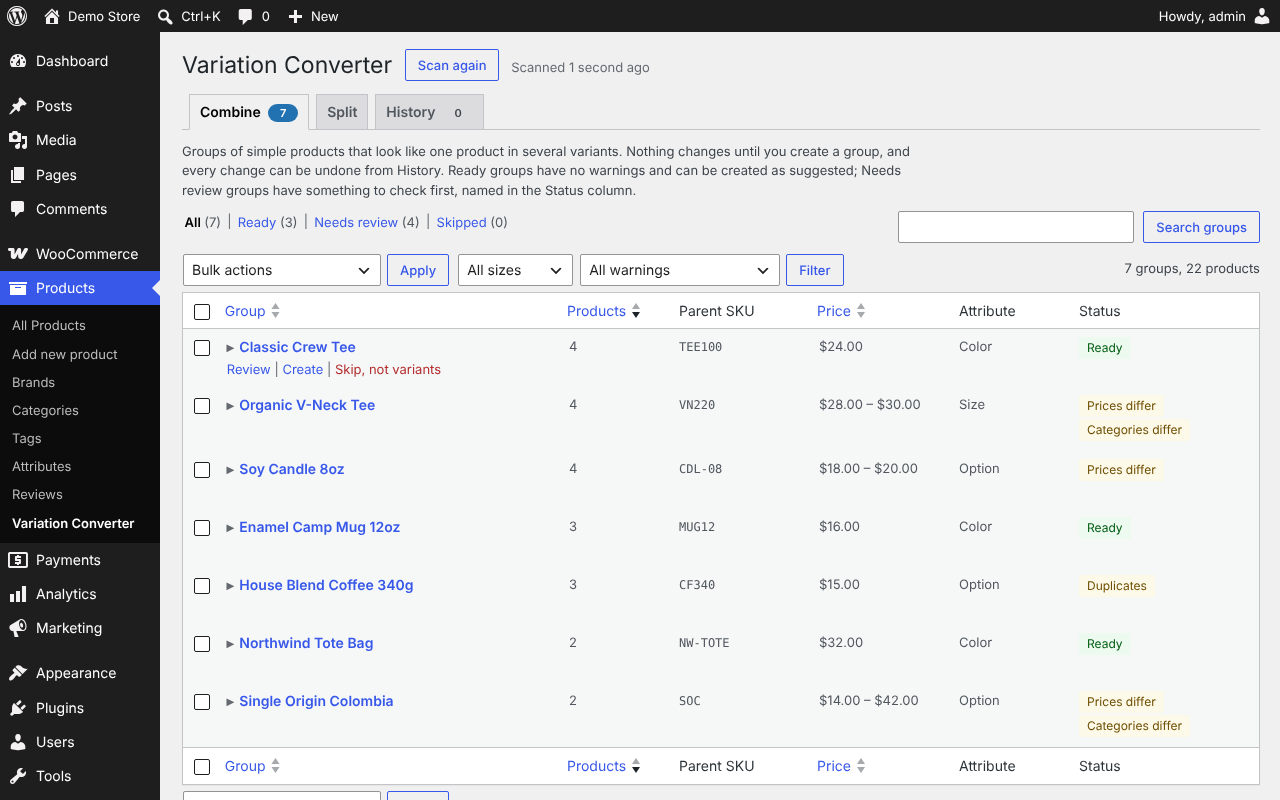
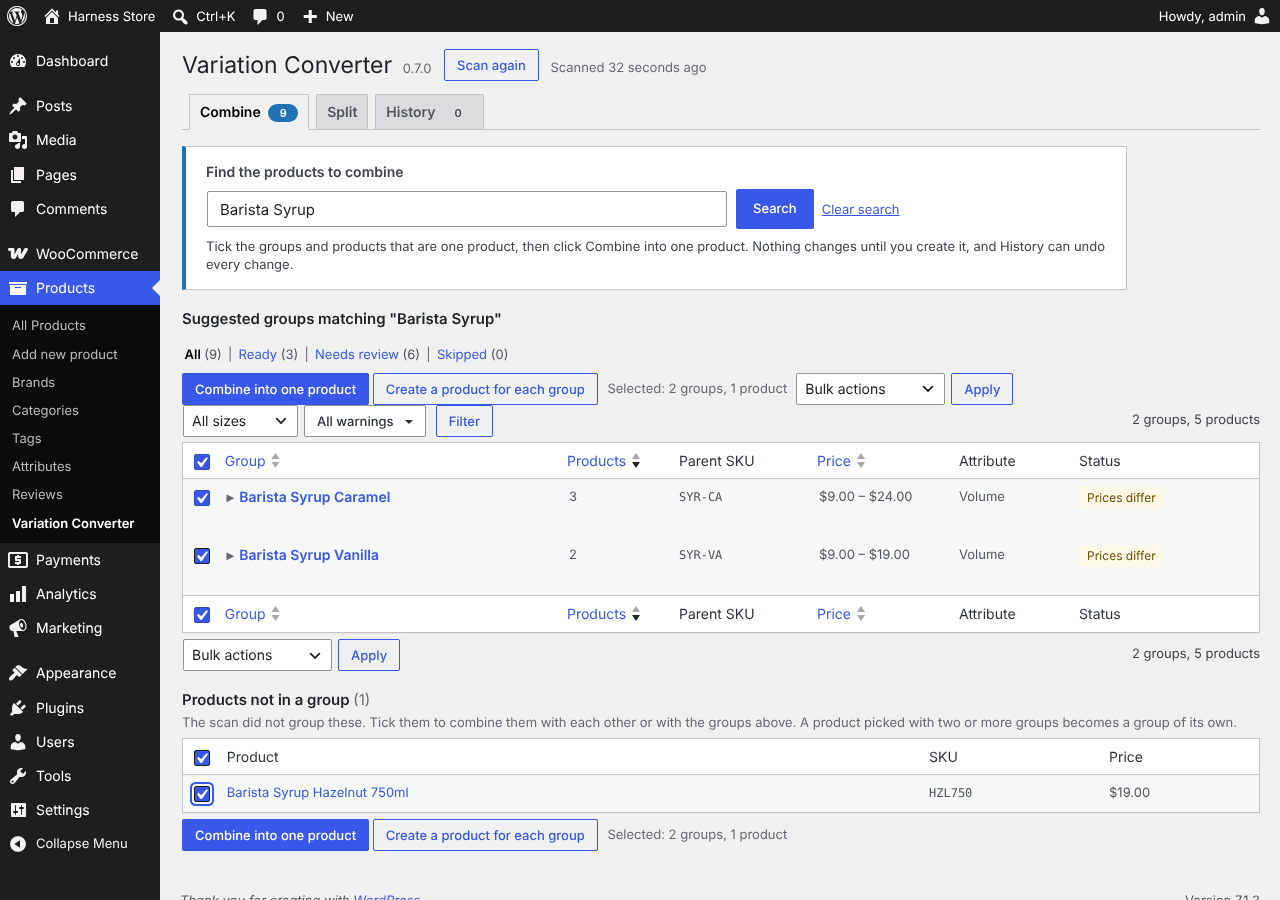
Docs, site and listing lead with search: find, tick, Combine into one product (#42)
readme.txt: short description, description, How it works, features,
two-attribute and grouping FAQs, install step, screenshot captions,
0.7.0 upgrade notice. Site: hero, meta, new Search and Tick steps,
features, FAQ. README: intro, combine steps, two-attribute section.
wordpress.org screenshots regenerated on 0.7.0 with the search flow;
site/images/search.webp from screenshot 1.

Claude-Session: https://claude.ai/code/session_01UmMitGtBR1GMWpup46JTgp

diff --git a/site/index.html b/site/index.html
@@ -4,9 +4,9 @@
 <meta charset="utf-8">
 <meta name="viewport" content="width=device-width, initial-scale=1">
 <title>Variation Converter for WooCommerce</title>
-<meta name="description" content="A free WordPress plugin that merges near-duplicate WooCommerce simple products into one variable product, or splits a variable product into simple ones. Preview first, undo in one click.">
+<meta name="description" content="A free WordPress plugin: search for a WooCommerce product, tick its variants and combine them into one variable product, or split a variable product into simple ones. Preview first, undo in one click.">
 <meta property="og:title" content="Variation Converter for WooCommerce">
-<meta property="og:description" content="Merge near-duplicate simple products into a variable product, or split a variable product into simple ones. Preview first, undo in one click.">
+<meta property="og:description" content="Search for a product, tick its variants and combine them into one variable product, or split a variable product into simple ones. Preview first, undo in one click.">
 <meta property="og:type" content="website">
 <meta property="og:image" content="https://variation-converter.bizrocket.ca/images/combine-list.png">
 <link rel="icon" href="favicon.svg" type="image/svg+xml">
@@ -31,7 +31,7 @@
 	<div class="wrap">
 		<p class="eyebrow">Free WordPress plugin for WooCommerce</p>
 		<h1>Turn a pile of near-duplicate products into one variable product.</h1>
-		<p class="lead">Variation Converter finds the simple products in your catalog that are really one product in several colors, sizes or scents, and merges each group into a variable product. It splits variable products back into simple ones too. You preview every change, and Undo puts everything back.</p>
+		<p class="lead">Search for a product, tick the groups and products that are really one product in several colors, sizes or scents, and click <b>Combine into one product</b>. Variation Converter has already grouped most of them for you. It splits variable products back into simple ones too. You preview every change, and Undo puts everything back.</p>
 		<div class="actions">
 			<a class="button" href="https://wordpress.org/plugins/variation-converter-for-woocommerce/">Get it on WordPress.org</a>
 			<a class="button button-ghost" href="https://github.com/craigpestell/variation-converter">View on GitHub</a>
@@ -40,7 +40,7 @@
 	</div>
 	<div class="wrap">
 		<figure class="shot shot-hero">
-			<img src="images/combine-list.webp" width="1120" height="738" alt="The Combine tab listing proposed groups such as Classic Crew Tee and Soy Candle, each with a product count, parent SKU, price range, attribute and status.">
+			<img src="images/search.webp" width="1120" height="828" alt="The Combine tab after searching for Barista Syrup: two suggested groups, Caramel and Vanilla, and one product not in a group, Hazelnut 750ml, all ticked, with the Combine into one product button.">
 		</figure>
 	</div>
 </section>
@@ -59,14 +59,24 @@
 		<ol class="steps">
 			<li>
 				<div class="step-text">
-					<h3>It finds the groups</h3>
-					<p>Go to <b>Products &gt; Variation Converter</b>. The plugin scans your published simple products and groups the ones whose SKUs share a family (TEE100-BLK, TEE100-NAV) and whose names start with the same words. Each group shows a guessed attribute, a suggested parent SKU, and notes on anything worth a second look: different prices, different categories, duplicate labels.</p>
+					<h3>Search for the product</h3>
+					<p>Go to <b>Products &gt; Variation Converter</b> and type a name or SKU in <b>Find the products to combine</b>. You see the groups the plugin has already found for it, grouped by SKU family (TEE100-BLK, TEE100-NAV) and shared name, and below them any matching products it didn't group. Each group shows a guessed attribute, a suggested parent SKU, and notes on anything worth a second look: different prices, different categories, duplicate labels.</p>
+				</div>
+			</li>
+			<li>
+				<div class="step-text">
+					<h3>Tick what belongs together</h3>
+					<p>Tick the groups and products that are one product and click <b>Combine into one product</b>. Products, or one group plus a few strays, make a product with one attribute, such as Color. Two or more groups make a product with two attributes, such as Flavor and Size, with a grid of the pairs you actually sell.</p>
+				</div>
+				<figure class="shot">
+					<img src="images/combine-grid.webp" width="1078" height="1076" alt="Barista Syrup combined from the Caramel and Vanilla groups and a Hazelnut product: one row per product with its Color and Volume, and a grid showing which pairs are sold.">
+				</figure>
 				</div>
 			</li>
 			<li>
 				<div class="step-text">
 					<h3>You review and adjust</h3>
-					<p>Open a group to see each product, the variant label read from its name, its SKU, price and stock. Rename the product, change the attribute, fix labels, drag to reorder, or untick anything that doesn't belong. Nothing changes until you click Create.</p>
+					<p>Check each product, the variant label read from its name, its SKU, price and stock. Rename the product, change the attribute, fix labels, drag to reorder, or untick anything that doesn't belong. Nothing changes until you click Create.</p>
 				</div>
 				<figure class="shot">
 					<img src="images/combine-card.webp" width="1076" height="390" alt="A group being reviewed: product name Classic Crew Tee, attribute Color, parent SKU TEE100, and four rows labeled Black, Heather Grey, Navy and White with their SKUs, prices and stock.">
@@ -109,14 +119,16 @@
 		<h2>What you get</h2>
 		<ul class="grid">
 			<li><h3>Both directions</h3><p>Merge simple products into a variable product, or split a variable product into simple products.</p></li>
-			<li><h3>Finds the groups for you</h3><p>Grouped by SKU family and shared name, sorted and filterable, with Ready, Needs review and Skipped views.</p></li>
+			<li><h3>Search first</h3><p>Type a product name and see every group and stray product that matches, ready to tick and combine.</p></li>
+			<li><h3>Suggests the groups for you</h3><p>Grouped by SKU family and shared name, sorted and filterable, with Ready, Needs review and Skipped views.</p></li>
+			<li><h3>One or two attributes</h3><p>Combine products into one attribute, such as Color, or whole groups into two, such as Flavor and Size.</p></li>
 			<li><h3>Review before anything changes</h3><p>Rename, change the attribute, fix labels and leave products out. Skip a group that isn't really variants.</p></li>
 			<li><h3>Keeps your data</h3><p>SKUs, prices, sale dates, stock, weight, dimensions and images move to the variations.</p></li>
 			<li><h3>Non-destructive</h3><p>Originals are hidden, never deleted. Their orders, reviews and links stay as they were.</p></li>
 			<li><h3>Old links keep working</h3><p>A combined product's old URL sends a 301 to the variable product with that option chosen.</p></li>
 			<li><h3>One-click Undo</h3><p>Every conversion can be reversed from History, in either direction.</p></li>
 			<li><h3>All or nothing</h3><p>If WooCommerce fails to save any part of a new product, the partial product is removed.</p></li>
-			<li><h3>Bulk when you're ready</h3><p>Create many groups at once from the list, or select products in <b>All Products</b> and choose "Combine into variable product".</p></li>
+			<li><h3>Bulk when you're ready</h3><p>Tick many groups and click <b>Create a product for each group</b>, or select products in <b>All Products</b> and choose "Combine into variable product".</p></li>
 			<li><h3>Lightweight</h3><p>No settings page, no scripts or styles on your storefront, no external services, nothing stored beyond a few options and product meta fields.</p></li>
 		</ul>
 	</div>
@@ -157,7 +169,7 @@ wp varconv undo --all --yes</code></pre>
 		</details>
 		<details>
 			<summary>Can a product have more than one attribute, like color and size?</summary>
-			<p>Yes, two. Each group the scan finds gets one attribute, such as Size. When several groups are flavors or colors of the same product, tick them and choose <b>Combine groups into one product</b>. You get one variable product with two attributes, such as Flavor and Size, and a grid shows which pairs are sold.</p>
+			<p>Yes, two. Each group the scan finds gets one attribute, such as Size. When several groups are flavors or colors of the same product, search for it, tick the groups and any matching products not in a group, and click <b>Combine into one product</b>. You get one variable product with two attributes, such as Flavor and Size, and a grid shows which pairs are sold.</p>
 		</details>
 		<details>
 			<summary>Why are there two products with the same SKU after a conversion?</summary>

diff --git a/README.md b/README.md
@@ -1,12 +1,14 @@
 # Variation Converter for WooCommerce
 
-Many stores list one simple product per color or size: "Classic Tee Black", "Classic Tee Blue", "Classic Tee Red". Variation Converter finds those groups and turns each one you approve into a single variable product. It also works the other way, splitting a variable product into separate simple products.
+Many stores list one simple product per color or size: "Classic Tee Black", "Classic Tee Blue", "Classic Tee Red". Search for the product, tick the groups and products that belong together, and Variation Converter turns them into a single variable product. It has already grouped most of them for you. It also works the other way, splitting a variable product into separate simple products.
 
-![The Combine tab listing proposed groups, each with a product count, parent SKU, price range, attribute and status.](site/images/combine-list.webp)
+![The Combine tab after searching for Barista Syrup: two suggested groups and one product not in a group, ticked, with the Combine into one product button.](site/images/search.webp)
 
 **What it does**
 
+- Finds the products to combine with one search, showing the groups it suggests and the products it didn't group.
 - Scans your catalog and suggests groups of simple products that are variants of one product.
+- Combines products into one attribute (Color), or several groups into two (Flavor and Size).
 - Lets you check and edit each group before anything changes.
 - Creates one variable product per group, with a variation for each original product.
 - Splits a variable product into one simple product per variation.
@@ -31,20 +33,21 @@ Take a database backup before converting many products at once. Undo is there, b
 
 ## Combine simple products into a variable product
 
-1. Go to **Products > Variation Converter**. The **Combine** tab lists the groups the plugin found.
-2. Click a group to open it.
-3. Check the product name, the attribute (for example Color or Size), the parent SKU and the label of each variant ("Black", "Blue"). Untick any product that doesn't belong. Drag rows to change their order; the first product gives the new product its image and description.
-4. Click **Create variable product**. If the group isn't really one product, click **Skip, not variants** so it stops appearing.
+1. Go to **Products > Variation Converter**. On the **Combine** tab, type a product name or SKU in **Find the products to combine** and click **Search**.
+2. The results show the suggested groups that match and, below them, **Products not in a group**: matching products the scan didn't group.
+3. Tick the groups and products that are one product and click **Combine into one product**. One group opens on its own. Products, or one group with extra products, open as one product with one attribute. Two or more groups open as one product with two attributes (see below).
+4. Check the product name, the attribute (for example Color or Size), the parent SKU and the label of each variant ("Black", "Blue"). Untick any product that doesn't belong. Drag rows to change their order; the first product gives the new product its image and description.
+5. Click **Create variable product**. If a group isn't really one product, click **Skip, not variants** so it stops appearing. **Back to search results** takes you back to your search for the next one.
 
 ![A group open for review: product name, attribute, parent SKU and one row per variant.](site/images/combine-card.webp)
 
-**Working through a long list.** The **Ready** view shows groups with no warnings. **Needs review** shows groups with a warning, such as different prices, different categories, missing or repeated labels, long labels, or two products with the same SKU. **Skipped** lists the groups you skipped; you can restore them. You can also search, filter by brand, group size or warning, and use **Bulk actions** to create or skip many groups at once.
+**Working through a long list.** The **Ready** view shows groups with no warnings. **Needs review** shows groups with a warning, such as different prices, different categories, missing or repeated labels, long labels, or two products with the same SKU. **Skipped** lists the groups you skipped; you can restore them. Without a search, the tab lists every suggested group. Filter by brand, group size or warning, tick groups and click **Create a product for each group** to create them all (it runs in the background), or use **Bulk actions** to skip or restore many at once.
 
-**Combining groups into one product with two attributes.** When each group is one flavor or color of the same product, for example Barista Syrup Vanilla (250ml, 750ml) and Barista Syrup Caramel (250ml, 750ml, 1L), tick the groups, choose **Combine groups into one product** from the bulk actions and click **Apply**. One card opens with two attributes: one from the groups (Flavor: Vanilla, Caramel) and the groups' own (Volume). The words the group names share become the product name, and the rest of each group's name its label; you can change all of them. A grid shows which product becomes each pair. Pairs that no product has, such as Vanilla 1L, get no variation, so shoppers see them as unavailable. Undo works as for any combine.
+**Combining groups into one product with two attributes.** When each group is one flavor or color of the same product, for example Barista Syrup Vanilla (250ml, 750ml) and Barista Syrup Caramel (250ml, 750ml, 1L), search for "Barista Syrup", tick the groups and any matching products not in a group (such as Barista Syrup Hazelnut 750ml, which becomes a group of its own), and click **Combine into one product**. One card opens with two attributes: one from the groups (Flavor: Vanilla, Caramel) and the groups' own (Volume). The words the group names share become the product name, and the rest of each group's name its label; you can change all of them. A grid shows which product becomes each pair. Pairs that no product has, such as Vanilla 1L, get no variation, so shoppers see them as unavailable. Undo works as for any combine.
 
 ![Two groups combined into one product: two attribute columns and the grid of pairs, with one pair not sold.](site/images/combine-grid.webp)
 
-**Combining products the plugin didn't group.** In **Products > All Products**, tick the products, choose **Combine into variable product** from the bulk actions, and click **Apply**. Their SKUs don't need to match.
+**Combining products the plugin didn't group.** Search for them on the Combine tab, where they show under **Products not in a group**. Or, in **Products > All Products**, tick the products, choose **Combine into variable product** from the bulk actions, and click **Apply**. Their SKUs don't need to match.
 
 **How groups are found.** Only published simple products that have a SKU and are shown in the catalog are scanned. Products without a SKU are never suggested. Products are grouped when:
 
